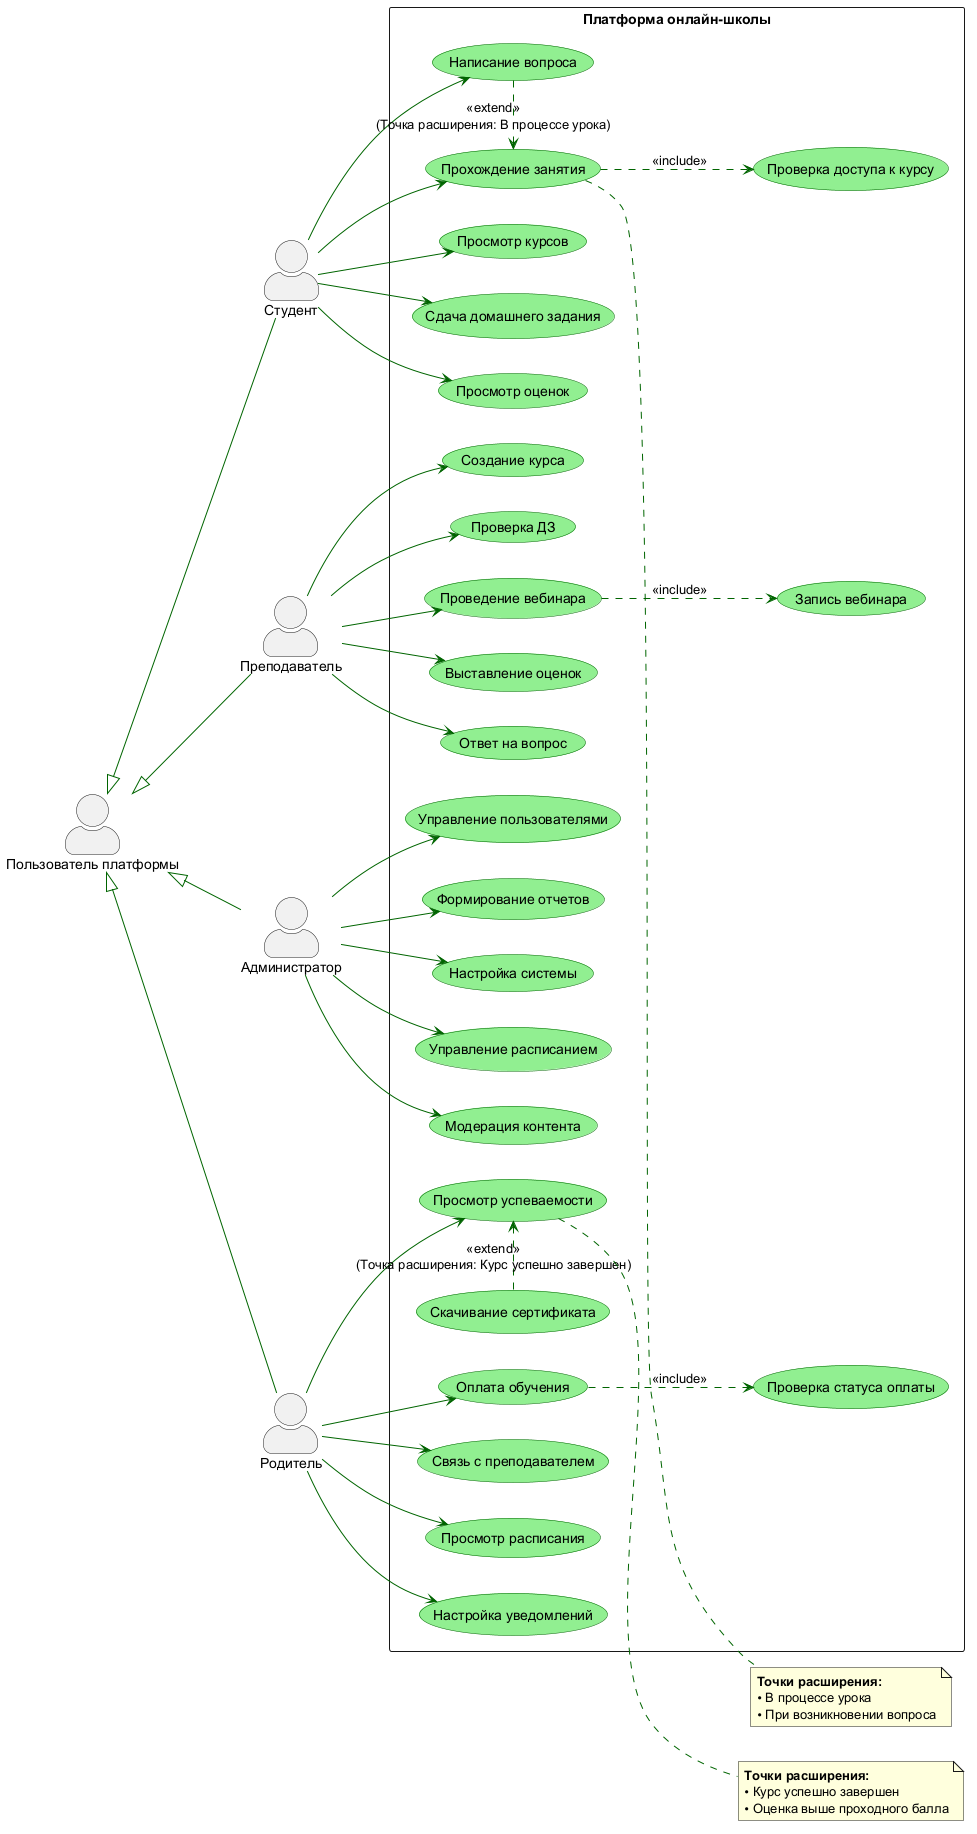
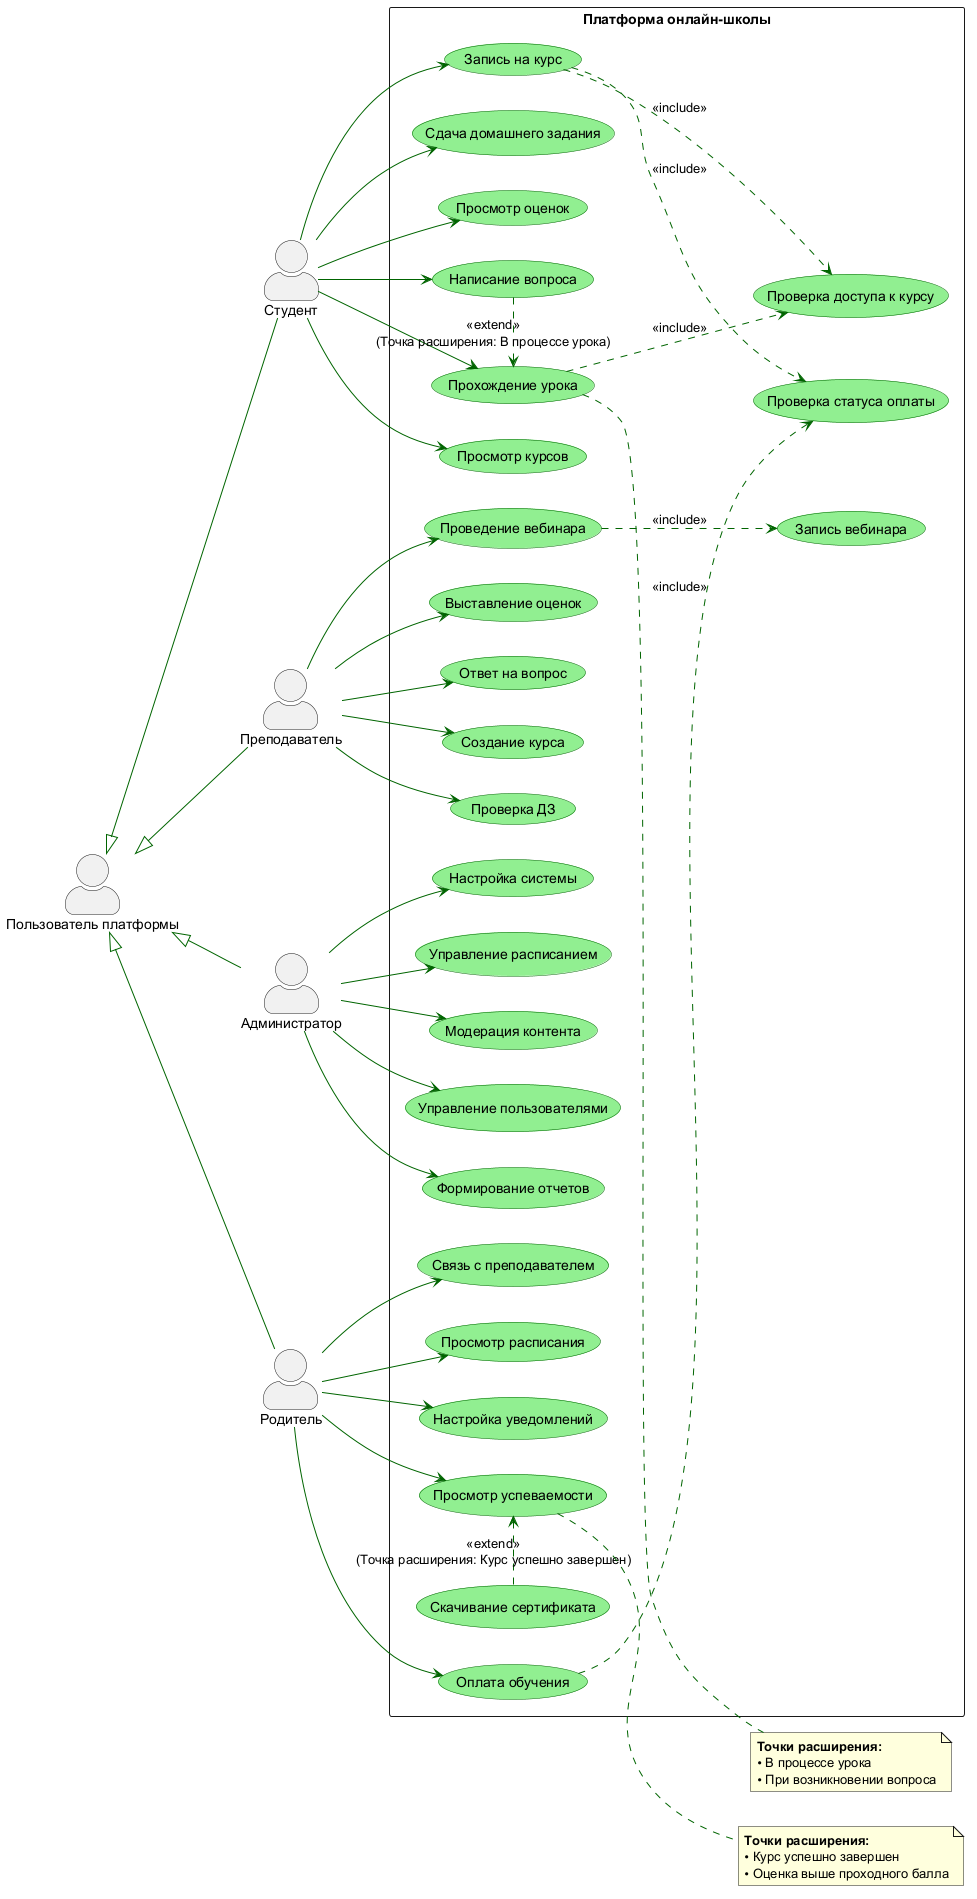
Внесены изменения в use case и activity, добавлена диаграмма классов (class)

diff --git a/online-school-uml/README.md b/online-school-uml/README.md
@@ -6,7 +6,8 @@
 
 ## Структура репозитория
 * `use-case/` — Диаграмма вариантов использования (Use Case Diagram)
-* `activity/` — Диаграммы деятельности (Activity Diagram)
+* `activity/` — Диаграмма деятельности (Activity Diagram)
+* `class/` — Диаграмма классов (Class Diagram)
 
 ## Актеры и их возможности
 * **Студент**: Просмотр курсов, Прохождение урока, Сдача ДЗ, Просмотр оценок, Написание вопроса.
@@ -14,7 +15,7 @@
 * **Администратор**: Управление пользователями, Формирование отчетов, Настройка системы, Управление расписанием, Модерация контента.
 * **Родитель**: Оплата обучения, Просмотр успеваемости, Связь с преподавателем, Просмотр расписания, Настройка уведомлений.
 
-## Диаграмма вариантов использования (Use Case)
+## 1. Диаграмма вариантов использования (Use Case)
 ![Use Case Diagram](./use-case/use-case-diagram.png)
 
 ## О диаграмме
@@ -22,12 +23,17 @@
 * **Include (`<<include>>`)**: Обязательные подпроцессы. Например, «Прохождение урока» всегда включает «Проверку доступа к курсу».
 * **Extend (`<<extend>>`)**: Опциональные сценарии. Например, «Задать вопрос» расширяет «Прохождение урока», а «Скачать сертификат» расширяет «Просмотр успеваемости».
 
-
-### 2. Диаграмма деятельности (Activity)
+## 2. Диаграмма деятельности (Activity)
 ![Activity Diagram](./activity/activity-diagram.png)
 
 Описывает бизнес-логику процесса записи студента на курс, включая проверку оплаты и ветвления.
 
+## 3. Диаграмма классов (Class)
+![Activity Diagram](./class/class-diagram.png)
+
+Диаграмма описывает структуру системы онлайн-школы. В ее основе абстрактный класс Пользователь с общими атрибутами и методами аутентификации. От него наследуются четыре роли: Студент, Преподаватель, Администратор, Родитель. Это позволяет вынести общую логику в базовый класс и не дублировать её в каждом наследнике.
+
+Учебный контент представлен классами Курс, Урок, Вебинар, Задание, Оценка. Курс агрегирует уроки и вебинары через композицию - урок не существует отдельно от курса. Задание привязано к уроку, оценка - к заданию и студенту одновременно. Вспомогательные сущности - Вопрос, Оплата, Уведомление, Расписание, Сертификат, Отчет.
 
 ## Технологии
 * PlantUML
